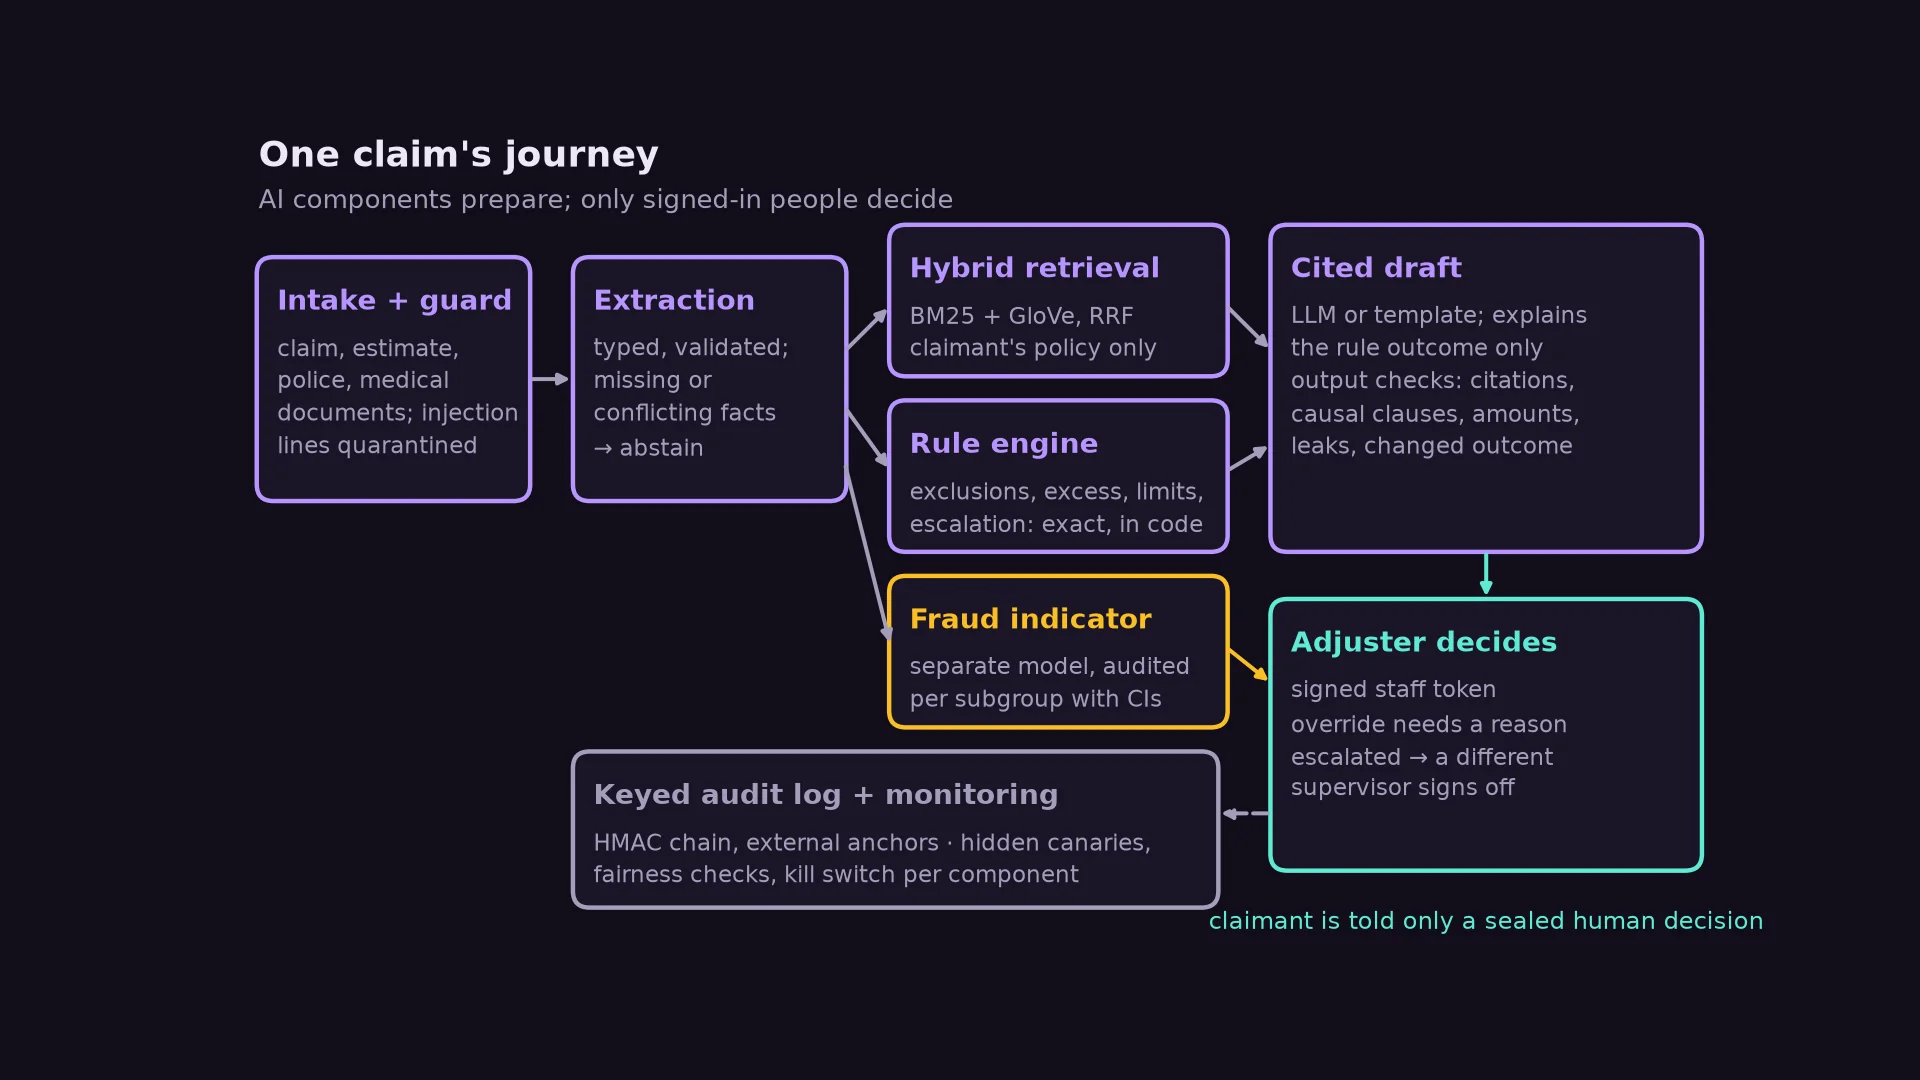
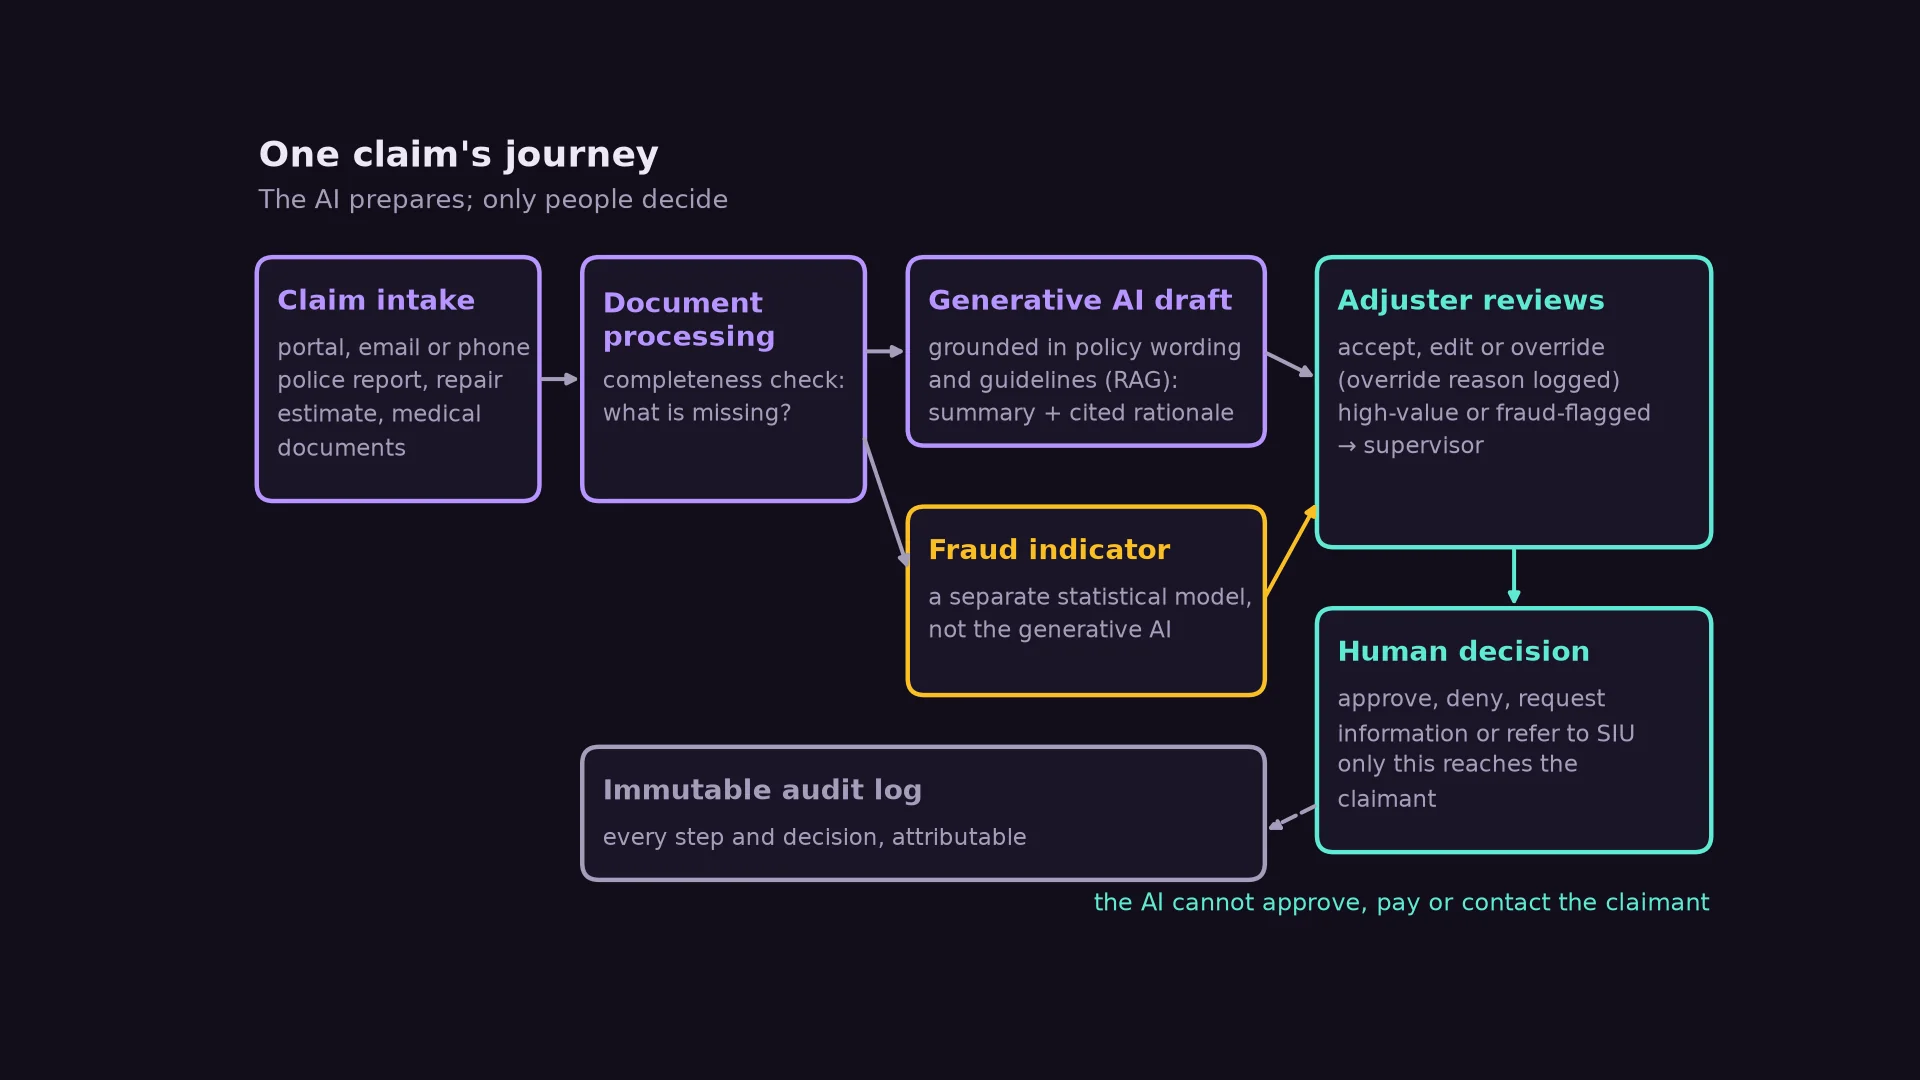
Refocus Claims Copilot write-up on the Responsible AI assessment

Changed region(s): [[0.125, 0.1528, 0.9062, 0.8556]]

diff --git a/src/content/projects/claims-copilot.md b/src/content/projects/claims-copilot.md
@@ -2,147 +2,112 @@
 title: "Claims Copilot: Responsible Generative AI for Motor Insurance"
 date: 2026-06-01
 status: completed
-summary: "A generative-AI copilot for motor insurance claims where a person always decides: a working prototype of its safeguards, an evaluation built to find where they fail, and a Responsible AI assessment."
-tags: [genai, llm, insurance, responsible-ai, fairness]
-stack: [Python, Claude API, scikit-learn, NumPy, SciPy, matplotlib, pytest, Hypothesis]
+summary: "Should a generative-AI copilot be trusted with motor insurance claims? A Responsible AI assessment through five ethical lenses, the EU AI Act and GDPR, risk and governance, backed by a fairness audit and an automation-bias simulation."
+tags: [responsible-ai, ai-ethics, fairness, ai-governance, insurance, genai]
+stack: [Python, NumPy, SciPy, scikit-learn, matplotlib]
 github: https://github.com/Chandana18G/motor-claims-copilot
 image: /images/projects/claims-copilot/architecture.webp
-imageAlt: "Diagram of one claim's journey. Intake and an injection guard feed extraction, which feeds hybrid retrieval over the claimant's policy, a rule engine and a separate fraud indicator. These produce a cited draft from an LLM or a template, which is checked and goes to an adjuster with a signed staff token; escalated claims need a different supervisor. A keyed audit log with monitoring and kill switches records every step, and the claimant is told only a sealed human decision."
-highlights: ["AI never decides: 11/11 bypasses refused", "0 of 88 injections reached adjusters", "Hidden proxy bias: 1.6× FPR (synthetic)"]
+imageAlt: "Diagram of one claim's journey. Claim intake and document processing feed a generative AI draft grounded in the policy wording and a separate statistical fraud indicator. An adjuster accepts, edits or overrides the draft, with high-value or fraud-flagged claims going to a supervisor. Only the human decision reaches the claimant, and every step is written to an immutable audit log. The AI cannot approve, pay or contact the claimant."
+highlights: ["Five ethical lenses, one verdict", "Hidden proxy bias: 1.36× (synthetic)", "Override rate: no signal of harm"]
 featured: false
 ---
 
 ## Problem
 
-Every motor claim requires an adjuster to work through police reports, repair estimates,
-medical documentation and the policy wording, then write a rationale largely from scratch. A
-generative-AI copilot can draft that work, but the people the decision lands on, claimants and
-third parties, never see the AI and can't contest how it shaped their outcome.
+A generative-AI Claims Copilot could take a real bottleneck off motor insurance adjusters, who
+today work through police reports, repair estimates, medical documentation and the policy
+wording and write a rationale from scratch for every claim. But the claimant, and any third
+party, never interacts with the AI and has almost no visibility into how it shaped their outcome.
 
-So this project asks two questions: **how do you build a claims copilot where the AI never makes
-the decision**, and **should it be trusted with a real claim, and under what conditions?** It
-combines a Responsible AI assessment (ethics, EU AI Act, GDPR, risk and governance) with a
-working prototype whose evaluation is designed to find where the safeguards fail.
+So the question is not whether the system works, but **whether it should be trusted with a real
+claim, and under what conditions**. A system that is faster but less fair, or more efficient
+but less accountable, is not a neutral trade-off: it moves risk onto the people least able to
+see or contest it.
 
 ## Data
 
-Claims and policies are **synthetic**: three invented motor policies with about 20 citable
-clauses each, and generated claims with a claim form, a workshop estimate, and sometimes a police
-report or medical note. To keep the evaluation honest, the documents are messy on purpose:
-English and German forms, a free-text style held out from development, and OCR noise that
-drops digits. The generator also builds in a **historical bias**: past investigators looked at
-one area more often, and that area's cars are older and cheaper. True fraud is independent of
-area.
-
-Two external inputs keep the tests independent of my own design: pretrained **GloVe** word
-vectors for retrieval and **88 prompt-injection attacks from NVIDIA garak**, an open-source LLM
-vulnerability scanner.
+The assessment examines the system's design and documentation. To test two of its central
+claims, I ran small analyses on **synthetic claims**, generated so that the true answer is known:
+fraud is independent of where people live, but past investigators looked at one area more often.
+The analyses show mechanisms, not rates for any real insurer.
 
 ## Approach
 
 <figure>
-  <img src="/images/projects/claims-copilot/architecture.webp" width="1920" height="1080" loading="lazy" decoding="async" alt="Architecture diagram: intake and guard, extraction, hybrid retrieval, rule engine, separate fraud indicator, cited draft with output checks, adjuster decision with signed tokens and four-eyes sign-off, and a keyed audit log with monitoring and kill switches." />
-  <figcaption>One claim's journey: AI components prepare, only signed-in people decide.</figcaption>
+  <img src="/images/projects/claims-copilot/architecture.webp" width="1920" height="1080" loading="lazy" decoding="async" alt="Diagram of one claim's journey: intake, document processing, a generative AI draft grounded in policy wording, a separate fraud indicator, adjuster review with supervisor escalation, the human decision, and an immutable audit log." />
+  <figcaption>The system assessed: the AI prepares, only people decide, and the boundary is architectural.</figcaption>
 </figure>
 
-- **Untrusted documents.** A guard quarantines injected instructions; extraction reads typed,
-  validated fields and reports missing or conflicting facts instead of guessing.
-- **Policy-scoped hybrid retrieval** (BM25 + GloVe, reciprocal rank fusion) over only the
-  claimant's own policy.
-- **A deterministic rule engine** for exclusions, excess, limits and escalation, checked
-  against 14 cases worked out by hand plus property tests.
-- **An LLM drafter (Claude) that can only explain, not decide.** Every generated draft must cite
-  verbatim the exact clauses the rule engine used, keep its recommendation, and contain no
-  invented amounts, other claims or echoed injected text. Otherwise it is replaced by a template.
-- **A human-decision boundary in code:** signed, expiring staff tokens; override reasons;
-  escalated claims signed off by a *different* supervisor; sealed decisions; role-based access
-  to health data; and a keyed audit log anchored outside itself.
-- **Monitoring that measures real review:** hidden canary drafts, unannounced re-review, and
-  fairness checks that pause a component automatically until the governance function resumes it.
+- **Stakeholders.** I mapped who influences the system against who lives with its consequences.
+  Claimants have no influence at all, which creates three tensions: efficiency vs. fairness,
+  fraud prevention vs. privacy, and automation vs. accountability, where the adjuster risks
+  becoming a *moral crumple zone*.
+- **Five ethical lenses:**
+  - **Utilitarianism:** speed benefits and false-flag harms fall on different people.
+  - **Deontology:** automation bias can break the duty while formally respecting it.
+  - **Virtue ethics:** design can support judgement but not create it.
+  - **UDHR Art. 7, 8 and 12:** equality, effective remedy and privacy.
+  - **Ubuntu:** whether the insurer–adjuster–claimant relationship survives.
 
-The assessment examined the system through five ethical lenses (utilitarianism, deontology,
-virtue ethics, the UDHR and Ubuntu), the EU AI Act and the GDPR, and a prioritised risk analysis.
+  All five converge on one question: **does the claimant stay visible?**
+- **Regulation.**
+  - **EU AI Act:** whether this is high-risk is genuinely open, because Annex III names life and
+    health pricing, not motor claims. If it is high-risk, Art. 14(4)(b) on automation bias
+    applies directly.
+  - **GDPR:** a DPIA is very likely mandatory (Art. 35). Art. 22 turns on the *SCHUFA* test,
+    which depends on use, not design.
+- **Risks, governance and a staged deployment plan**, with ownership spread across existing
+  functions, a new AI Governance function and a RACI across nine activities.
 
 ## Results
 
-All on synthetic data:
-
-| Stage | Result |
-| --- | --- |
-| Extraction | 100% correct on clean forms; held-out free-text letters 100% abstained, never misread |
-| Retrieval | Recall@1 49% hybrid vs 36% keywords; 0 clauses from another policy |
-| Rule engine | 14/14 hand-worked cases and all property tests pass |
-| Generated drafts | 7 failure modes of a misbehaving model: 100% rejected |
-| Prompt injection | Pattern guard caught only 11% of garak's attacks, yet **0 of 88** changed what the adjuster sees |
-| Authority boundary | 11/11 bypass attempts refused (forged, expired, revoked tokens, self sign-off…) |
-| Audit log | All tampering detected except an insider rewrite after the last checkpoint |
-
-**Averages hide unfair flagging, and the obvious fix is not enough.** Trained on the biased
-investigation records, the fraud model flags honest claimants from one area **7.6×** as often.
-Removing the area and postcode features still leaves **1.57×** (95% CI 1.40–1.76), because
-vehicle age and value act as hidden proxies. Training on a 2,000-claim audited sample closes the
-gap (1.08×) and is also the most accurate model.
+**Human-in-the-loop is not human-in-control.** The workflow guarantees that a person *could*
+step in; it can't guarantee they exercise independent judgement. To test what monitoring can
+reveal, I simulated 2,000 possible worlds across wide ranges of AI error and review diligence.
+The **override rate had no relationship** with how many wrong drafts became decisions
+(ρ = −0.02): at a 3% override rate, anywhere from 0.05% to 13% of decisions rested on a wrong
+draft. **Unannounced re-review of accepted decisions tracked the harm** (ρ = 0.84), which is why
+the governance design monitors what was accepted, not just what was overridden.
 
 <figure>
-  <img src="/images/projects/claims-copilot/fairness_fpr.webp" width="1920" height="1080" loading="lazy" decoding="async" alt="Bar chart of false-positive rates by area with 95% confidence intervals. All features: 2.7% in area A vs 20.5% in area B, ratio 7.6. Area and postcode removed: ratio 1.57, still flagged. Thresholds equalised on an audit sample: ratio 1.01. Trained on a 2,000-claim audit sample: ratio 1.08." />
-  <figcaption>Who gets wrongly flagged: removing the area feature isn't enough; an audited sample is.</figcaption>
+  <img src="/images/projects/claims-copilot/automation_bias.webp" width="1920" height="1080" loading="lazy" decoding="async" alt="Two scatter plots over 2,000 simulated worlds. Left: override rate against the share of wrong drafts that became decisions shows no relationship, Spearman rho -0.02. Right: an estimate from re-reviewing 100 accepted decisions closely tracks the true share, rho 0.84." />
+  <figcaption>A low override rate looks the same whether the AI is accurate or nobody is checking.</figcaption>
+</figure>
+
+**Averages hide who gets wrongly flagged.** Trained on biased investigation records, an
+illustrative fraud model flagged honest claimants from one area **7.6×** as often. Removing the
+area and postcode features still left **1.36×** (95% CI 1.21–1.52), because vehicle age and
+value act as hidden proxies. Equalising decision thresholds on an audited sample of 2,000 claims
+closed the gap. Retraining on that small sample overshot in the other direction, so the fix
+needs care too.
+
+<figure>
+  <img src="/images/projects/claims-copilot/fairness_fpr.webp" width="1920" height="1080" loading="lazy" decoding="async" alt="Bar chart of false-positive rates by area with 95% confidence intervals. All features: 2.5% in area A vs 19.5% in area B, ratio 7.62. Area and postcode removed: ratio 1.36, still flagged. Thresholds equalised on an audit sample: ratio 1.00. Trained on a 2,000-claim audit sample: ratio 0.77, flagged in the other direction." />
+  <figcaption>Removing the sensitive feature isn't enough; its proxies carry the bias.</figcaption>
 </figure>
 
 <figure>
-  <img src="/images/projects/claims-copilot/feedback_loop.webp" width="1920" height="1080" loading="lazy" decoding="async" alt="Line chart: as extra past investigation in area B rises from 0 to 60 percentage points, the false-positive ratio rises to about 9.9 with all features and about 1.5 with area removed, and stays near 1.0 with behaviour features only." />
+  <img src="/images/projects/claims-copilot/feedback_loop.webp" width="1920" height="1080" loading="lazy" decoding="async" alt="Line chart: as extra past investigation in area B rises from 0 to 60 percentage points, the false-positive ratio rises to about 8 with all features and about 1.5 with area removed, and stays near 1.0 with behaviour features only." />
   <figcaption>The feedback loop: uneven past scrutiny becomes tomorrow's training label.</figcaption>
 </figure>
-
-**A low override rate proves nothing; hidden canaries do.** Across 2,000 simulated worlds, the
-override rate had no relationship with how many wrong drafts became decisions (ρ = −0.02); at a
-3% override rate, anywhere from 0.05% to 13% of decisions rested on a wrong draft. Sixty hidden
-canaries estimated how often errors are really caught almost exactly (ρ = 0.97).
-
-<figure>
-  <img src="/images/projects/claims-copilot/automation_bias.webp" width="1920" height="1080" loading="lazy" decoding="async" alt="Two scatter plots over 2,000 simulated worlds. Left: override rate against the share of wrong drafts that became decisions shows no relationship, Spearman rho -0.02. Right: canary-based estimate against the true catch rate lies close to the diagonal, rho 0.97." />
-  <figcaption>Human-in-the-loop is not human-in-control, but it can be measured.</figcaption>
-</figure>
-
-**Defence in depth held where the first layer failed.** The pattern guard missed 60 of 88
-external attacks. A worst-case model obeyed every one that reached it, and the output checks
-rejected all 60 drafts.
-
-<figure>
-  <img src="/images/projects/claims-copilot/injection.webp" width="1920" height="1080" loading="lazy" decoding="async" alt="Bar chart: 88 garak attacks inserted into claims, 60 missed by the pattern guard, 60 obeyed by the model and rejected by output checks, 0 changed what the adjuster sees." />
-  <figcaption>Prompt injection: architecture, not pattern matching, kept the adjuster's view clean.</figcaption>
-</figure>
-
-<figure>
-  <img src="/images/projects/claims-copilot/extraction.webp" width="1920" height="1080" loading="lazy" decoding="async" alt="Stacked bars of extraction results by document style. Clean English and German forms: 100% correct. With OCR noise: about 95% correct and 5% wrong. Free-text letters: 100% missing, so the copilot abstains." />
-  <figcaption>Reading documents: unknown layouts lead to abstention, not guesses; OCR errors are the weak spot.</figcaption>
-</figure>
-
-<figure>
-  <img src="/images/projects/claims-copilot/retrieval.webp" width="1920" height="1080" loading="lazy" decoding="async" alt="Bar chart of retrieval recall on 173 checks. Recall@1: BM25 36%, LSA 36%, GloVe 42%, hybrid BM25 plus GloVe 49%. Recall@3: BM25 54%, GloVe 66%, hybrid 65%." />
-  <figcaption>Finding the right clause: pretrained GloVe vectors beat keywords; the hybrid ranks the right clause first most often.</figcaption>
-</figure>
-
-**What didn't work:** OCR errors that no second document confirms still reach 2.5% of drafts,
-the guard alone is weak, and an insider with the audit key can rewrite entries after the last
-checkpoint. The live Claude evaluation is ready but needs an API key to run.
-
-**Verdict of the assessment:** a plausible and defensible Responsible AI design, but responsible
-deployment is not yet confirmed until evidence, governance and monitoring requirements are
-demonstrated. The prototype shows which evidence is still missing and how to collect it.
 
 <figure>
   <img src="/images/projects/claims-copilot/risk_matrix.webp" width="1920" height="1080" loading="lazy" decoding="async" alt="Qualitative risk matrix of likelihood against impact on claimants. Automation bias, the accountability gap and unfair fraud detection sit in the high tier; explainability, privacy misuse and prompt injection in the middle; hallucinated terms, mitigated by retrieval grounding, lowest." />
   <figcaption>Risk landscape from the assessment (qualitative ranking, not a measurement).</figcaption>
 </figure>
 
+**Verdict:** a plausible and defensible Responsible AI design, but responsible deployment is not
+yet confirmed until evidence, governance and monitoring requirements are demonstrated. The legal
+analysis, the five ethical lenses and the risk analysis each reach this conditional answer
+independently.
+
 ## What I learned
 
-- **Human-in-the-loop is not human-in-control.** The architecture can guarantee that a person is
-  present; only measurement, like hidden canaries, can show they are exercising judgement.
-- **Removing a sensitive feature does not remove its proxies.** Fairness has to be measured per
-  subgroup, with confidence intervals and replication, on outcomes that aren't themselves biased.
-- **Don't trust the first layer.** The injection guard failed on unseen attacks; safety came from
-  letting the model explain decisions but never make them, and checking every output.
-- **Make the evaluation try to break the system.** Testing on held-out formats, external attacks
-  and null controls exposed real weaknesses, and a real bug: an expired staff token was accepted
-  until the authority tests caught it.
+- **Ethical frameworks are most useful when they disagree on method but converge on a
+  question.** Five lenses pointed to the same test: does the claimant stay visible?
+- **Oversight has to be measured, not assumed.** A human in the loop is a design property; a
+  human in control is something only evidence from use can show.
+- **Removing a sensitive feature does not remove its proxies.** Fairness must be measured per
+  subgroup, on outcomes that aren't themselves biased.
+- **Governance is part of the design.** A risk nobody owns is a risk nobody corrects, so
+  ownership, sign-off and the authority to pause belong in the system from the start.
